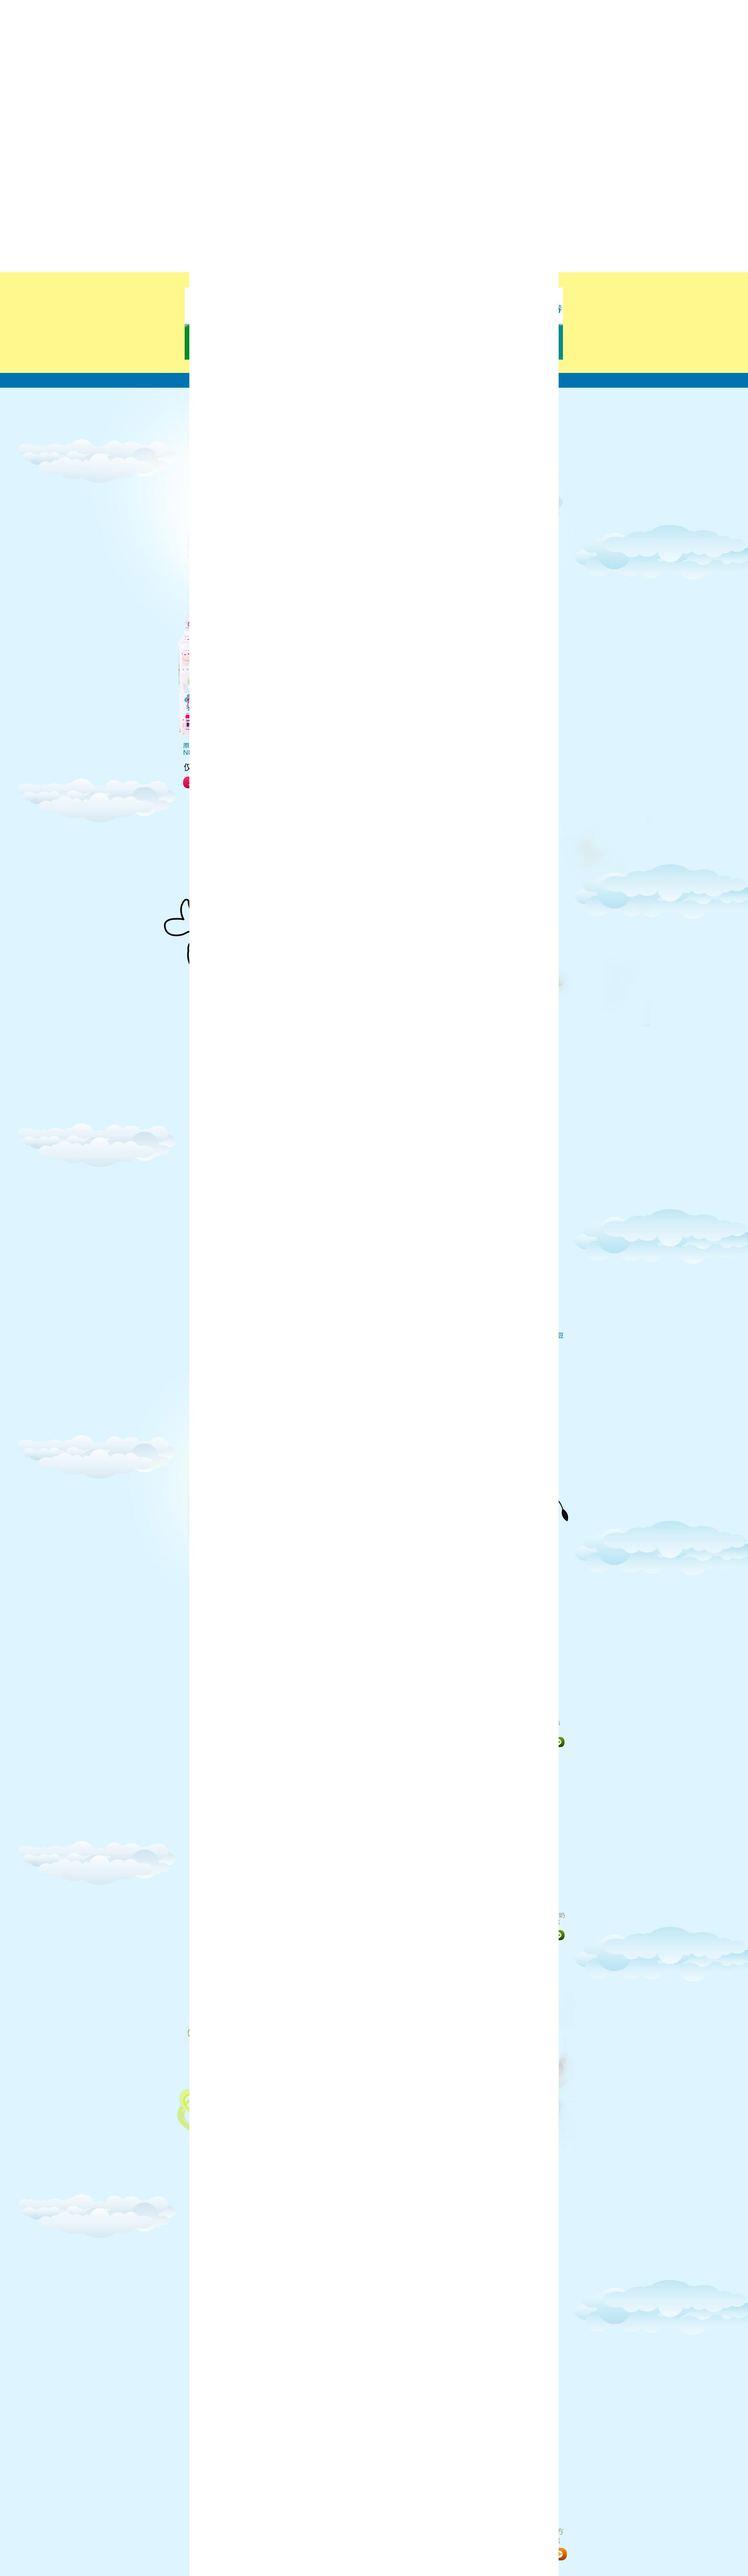
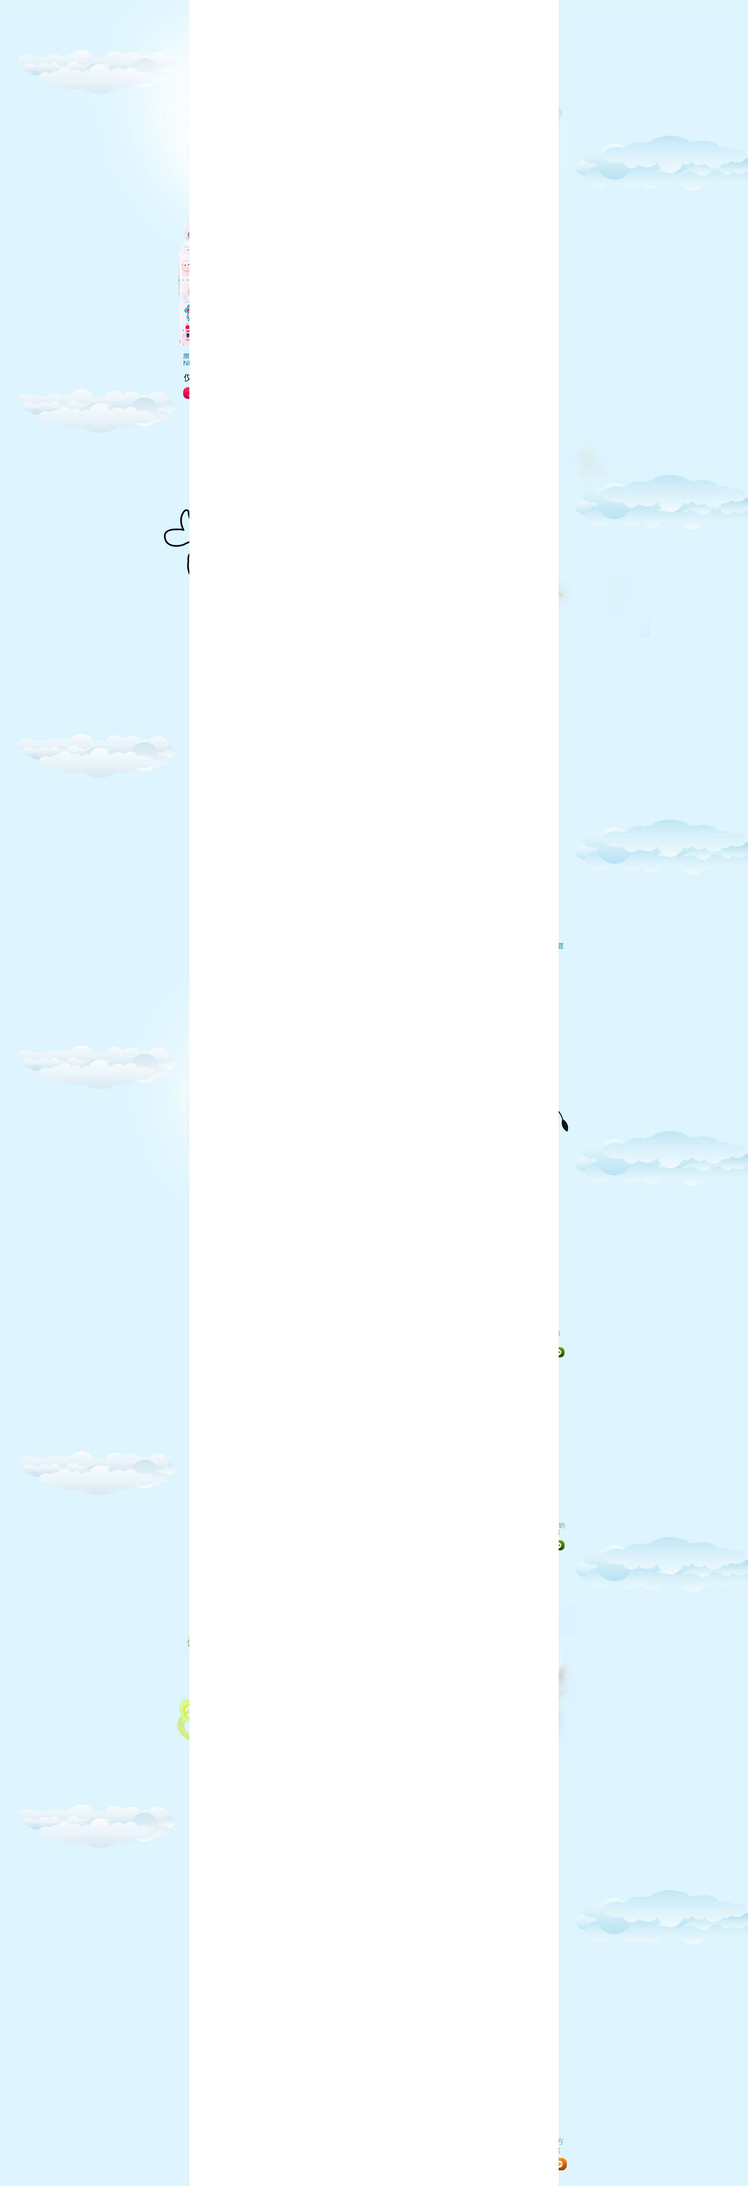
首页改为淘宝店铺首页

diff --git a/web/themes/default/style.css b/web/themes/default/style.css
@@ -2368,6 +2368,7 @@ a:hover, a:focus {
     width: 30px;
 }
 .bg_fff{background-color: #fff;}
+.bg_blue{background-color: #def4ff}
 .site-header {
     padding-top: 25px;
     position: relative;
@@ -4065,4 +4066,4 @@ filter:progid:DXImageTransform.Microsoft.gradient( GradientType = 0,startColorst
     color: #8c8c8c;
     font-size: 12px;
 }
-.indexbg{background: url(imagesgy/bg_index.jpg) no-repeat scroll center -960px #fff;}
+.indexbg{background: url(imagesgy/bg_index.jpg) repeat-y scroll center -960px #fff;}
